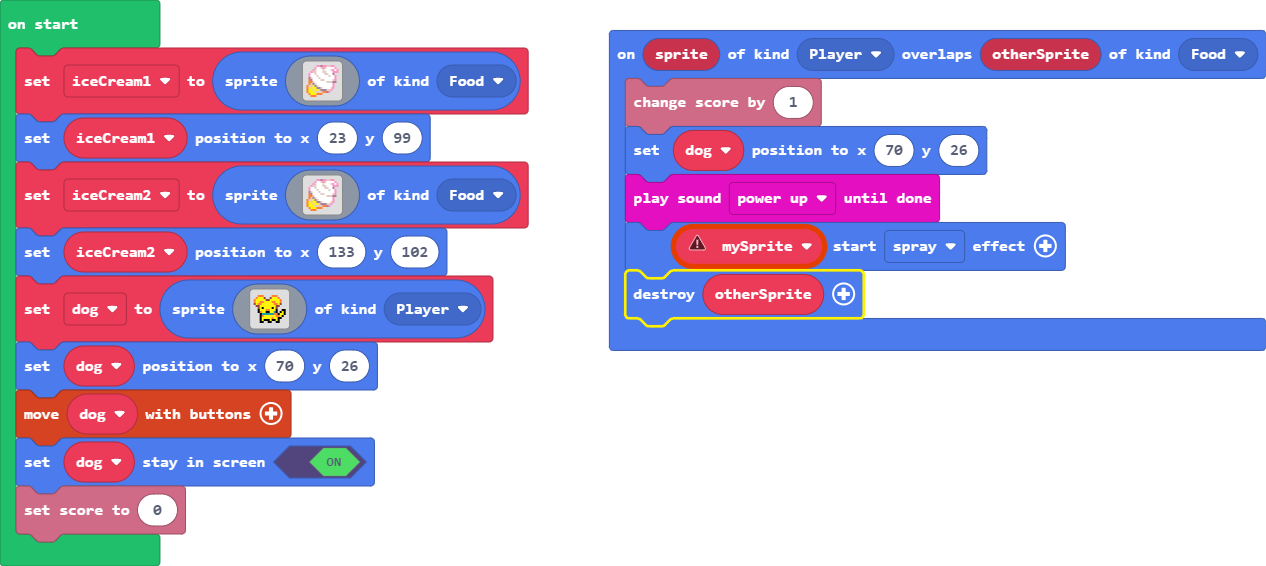
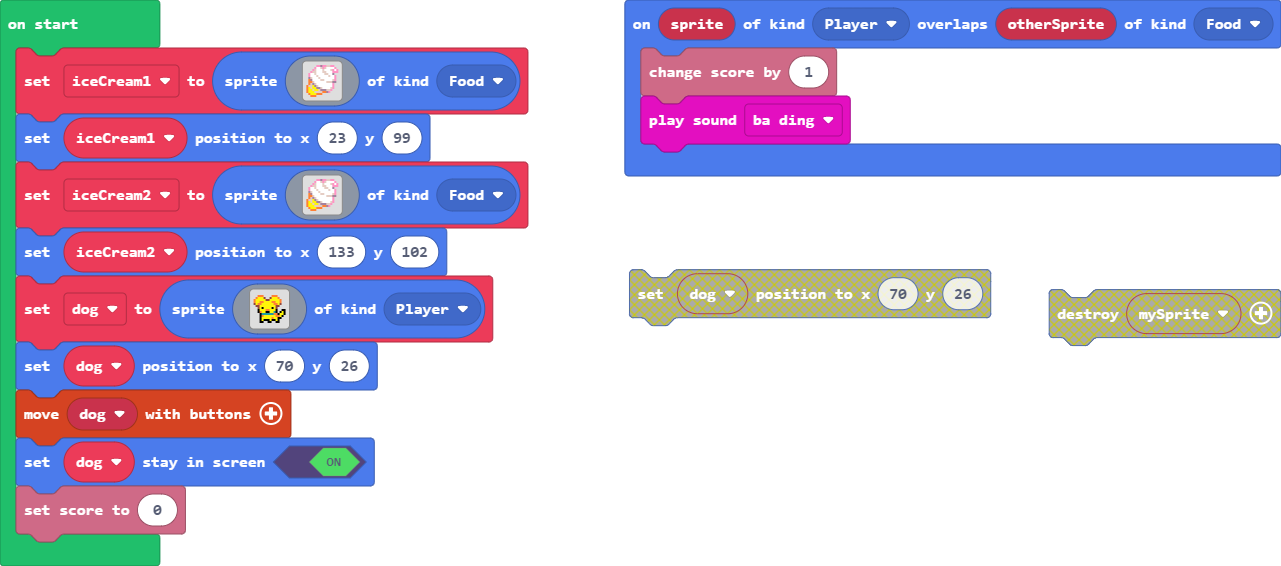
updated to include exploded code to reset player

diff --git a/main.ts b/main.ts
@@ -1,12 +1,7 @@
 sprites.onOverlap(SpriteKind.Player, SpriteKind.Food, function (sprite, otherSprite) {
-    let mySprite: Sprite = null
     info.changeScoreBy(1)
-    dog.setPosition(70, 26)
-    music.powerUp.playUntilDone()
-    mySprite.startEffect(effects.spray)
-    otherSprite.destroy()
+    music.baDing.play()
 })
-let dog: Sprite = null
 let iceCream1 = sprites.create(img`
     . . . . . 3 3 b 3 3 d d 3 3 . . 
     . . . . 3 1 1 d 3 d 1 1 1 1 3 . 
@@ -45,7 +40,7 @@ let iceCream2 = sprites.create(img`
     . . 4 4 4 . . . . . . . . . . . 
     `, SpriteKind.Food)
 iceCream2.setPosition(133, 102)
-dog = sprites.create(img`
+let dog = sprites.create(img`
     . . 4 4 4 . . . . 4 4 4 . . . . 
     . 4 5 5 5 e . . e 5 5 5 4 . . . 
     4 5 5 5 5 5 e e 5 5 5 5 5 4 . . 
